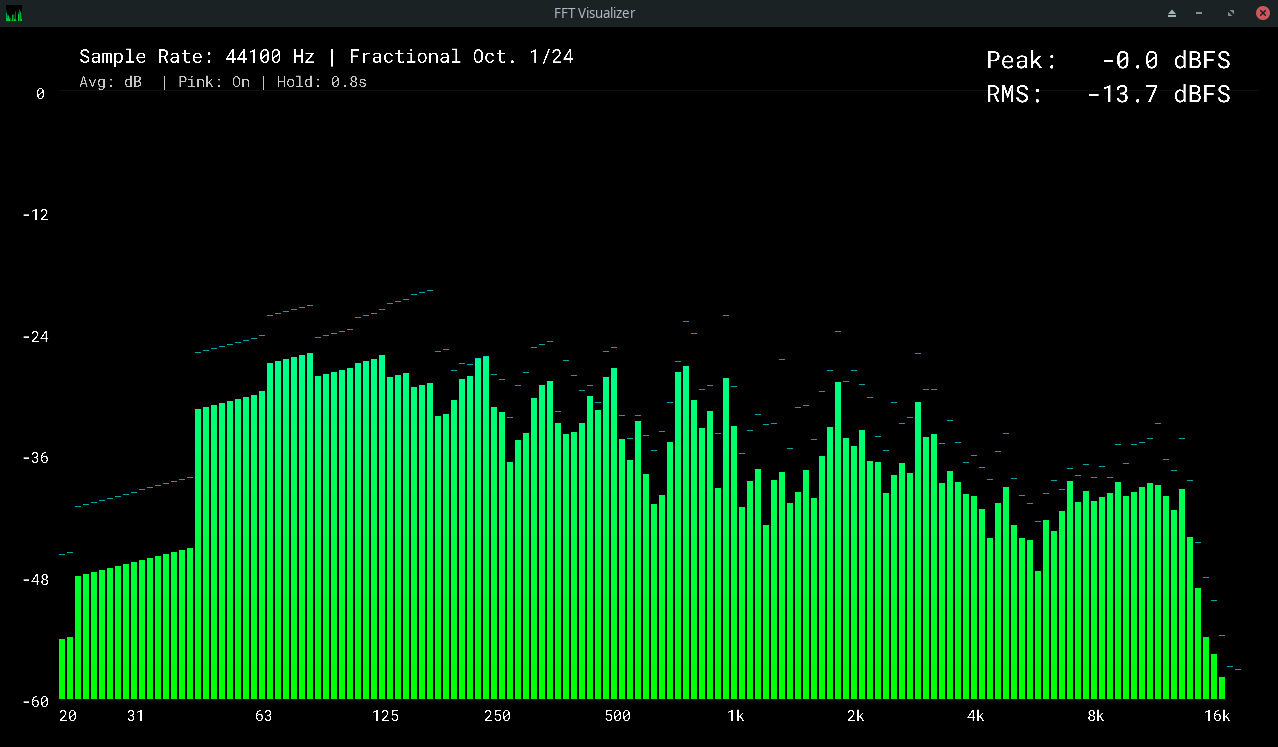
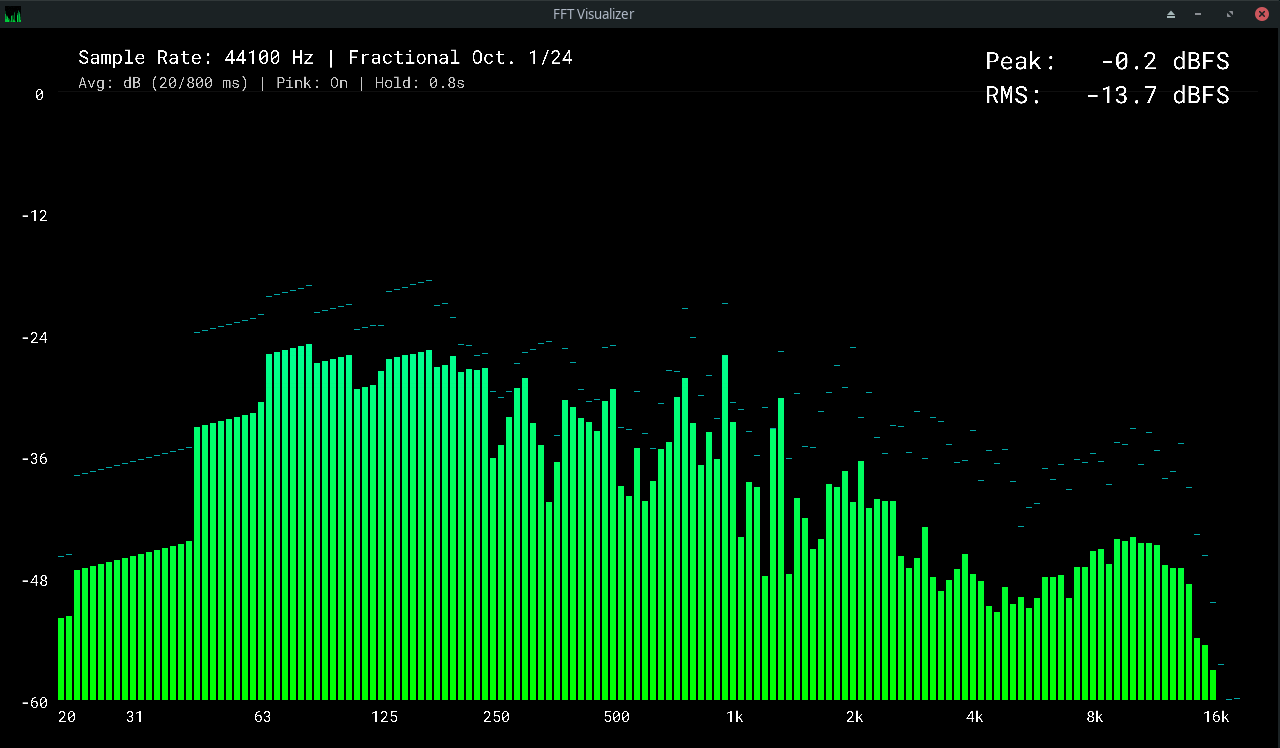
UI: Show averaging mode with attack/release in the UI

diff --git a/src/app.c b/src/app.c
@@ -12,7 +12,14 @@ print_usage(const char *prog)
             "  -h, --help       Show this help and exit\n"
             "  -l, --loop       Loop playback\n"
             "\n"
-            "Controls: O Octave, C Colors, P Pink, A Avg, F Fast/Slow, H Hold, F11 Fullscreen\n",
+            "Controls:\n"
+            "  O   Octave (1/1…1/48)\n"
+            "  C   Colors\n"
+            "  P   Pink compensation\n"
+            "  A   dB averaging\n"
+            "  F   Fast/Slow preset\n"
+            "  H   Peak-hold\n"
+            "  F11 Fullscreen\n",
             prog);
 }
 
@@ -135,6 +142,10 @@ void app_handle_input(app_state_t *app_state)
             s->db_smooth_attack_ms = 10.0;
             s->db_smooth_release_ms = 1200.0;
         }
+
+        TraceLog(LOG_INFO, "Averaging preset: %s (attack %.0f ms, release %.0f ms)",
+                 fast ? "Fast" : "Slow",
+                 s->db_smooth_attack_ms, s->db_smooth_release_ms);
     }
 
     if (IsKeyPressed(KEY_H))

diff --git a/src/render.c b/src/render.c
@@ -124,9 +124,14 @@ draw_overlay(const spectrum_state_t *s)
         snprintf(hold_buf, sizeof(hold_buf), "%.1fs", s->peak_hold_seconds);
     }
 
+    // Show averaging mode with attack/release in ms
+    const char *avg_label = s->db_smoothing_enabled ? "dB" : "Lin";
+    f64 attack_ms = s->db_smoothing_enabled ? s->db_smooth_attack_ms : s->smooth_attack_ms;
+    f64 release_ms = s->db_smoothing_enabled ? s->db_smooth_release_ms : s->smooth_release_ms;
+
     snprintf(modes, sizeof(modes),
-             "Avg: %s  | Pink: %s | Hold: %s",
-             s->db_smoothing_enabled ? "dB" : "Lin",
+             "Avg: %s (%.0f/%.0f ms) | Pink: %s | Hold: %s",
+             avg_label, attack_ms, release_ms,
              s->pinking_enabled ? "On" : "Off",
              hold_buf);
 

diff --git a/include/spectrum.h b/include/spectrum.h
@@ -25,7 +25,7 @@ typedef struct
     Color top;
 } bar_gradient_t;
 
-typedef struct spectrum_state_t
+typedef struct
 {
     i32 bar_gradient_index;
     bar_gradient_t bar_gradients[NUM_BAR_GRADIENTS];

diff --git a/include/app.h b/include/app.h
@@ -7,7 +7,7 @@
 #include "spectrum.h"
 #include "render.h"
 
-typedef struct app_state_t
+typedef struct
 {
     i32 running;
     i32 windowed_w;
